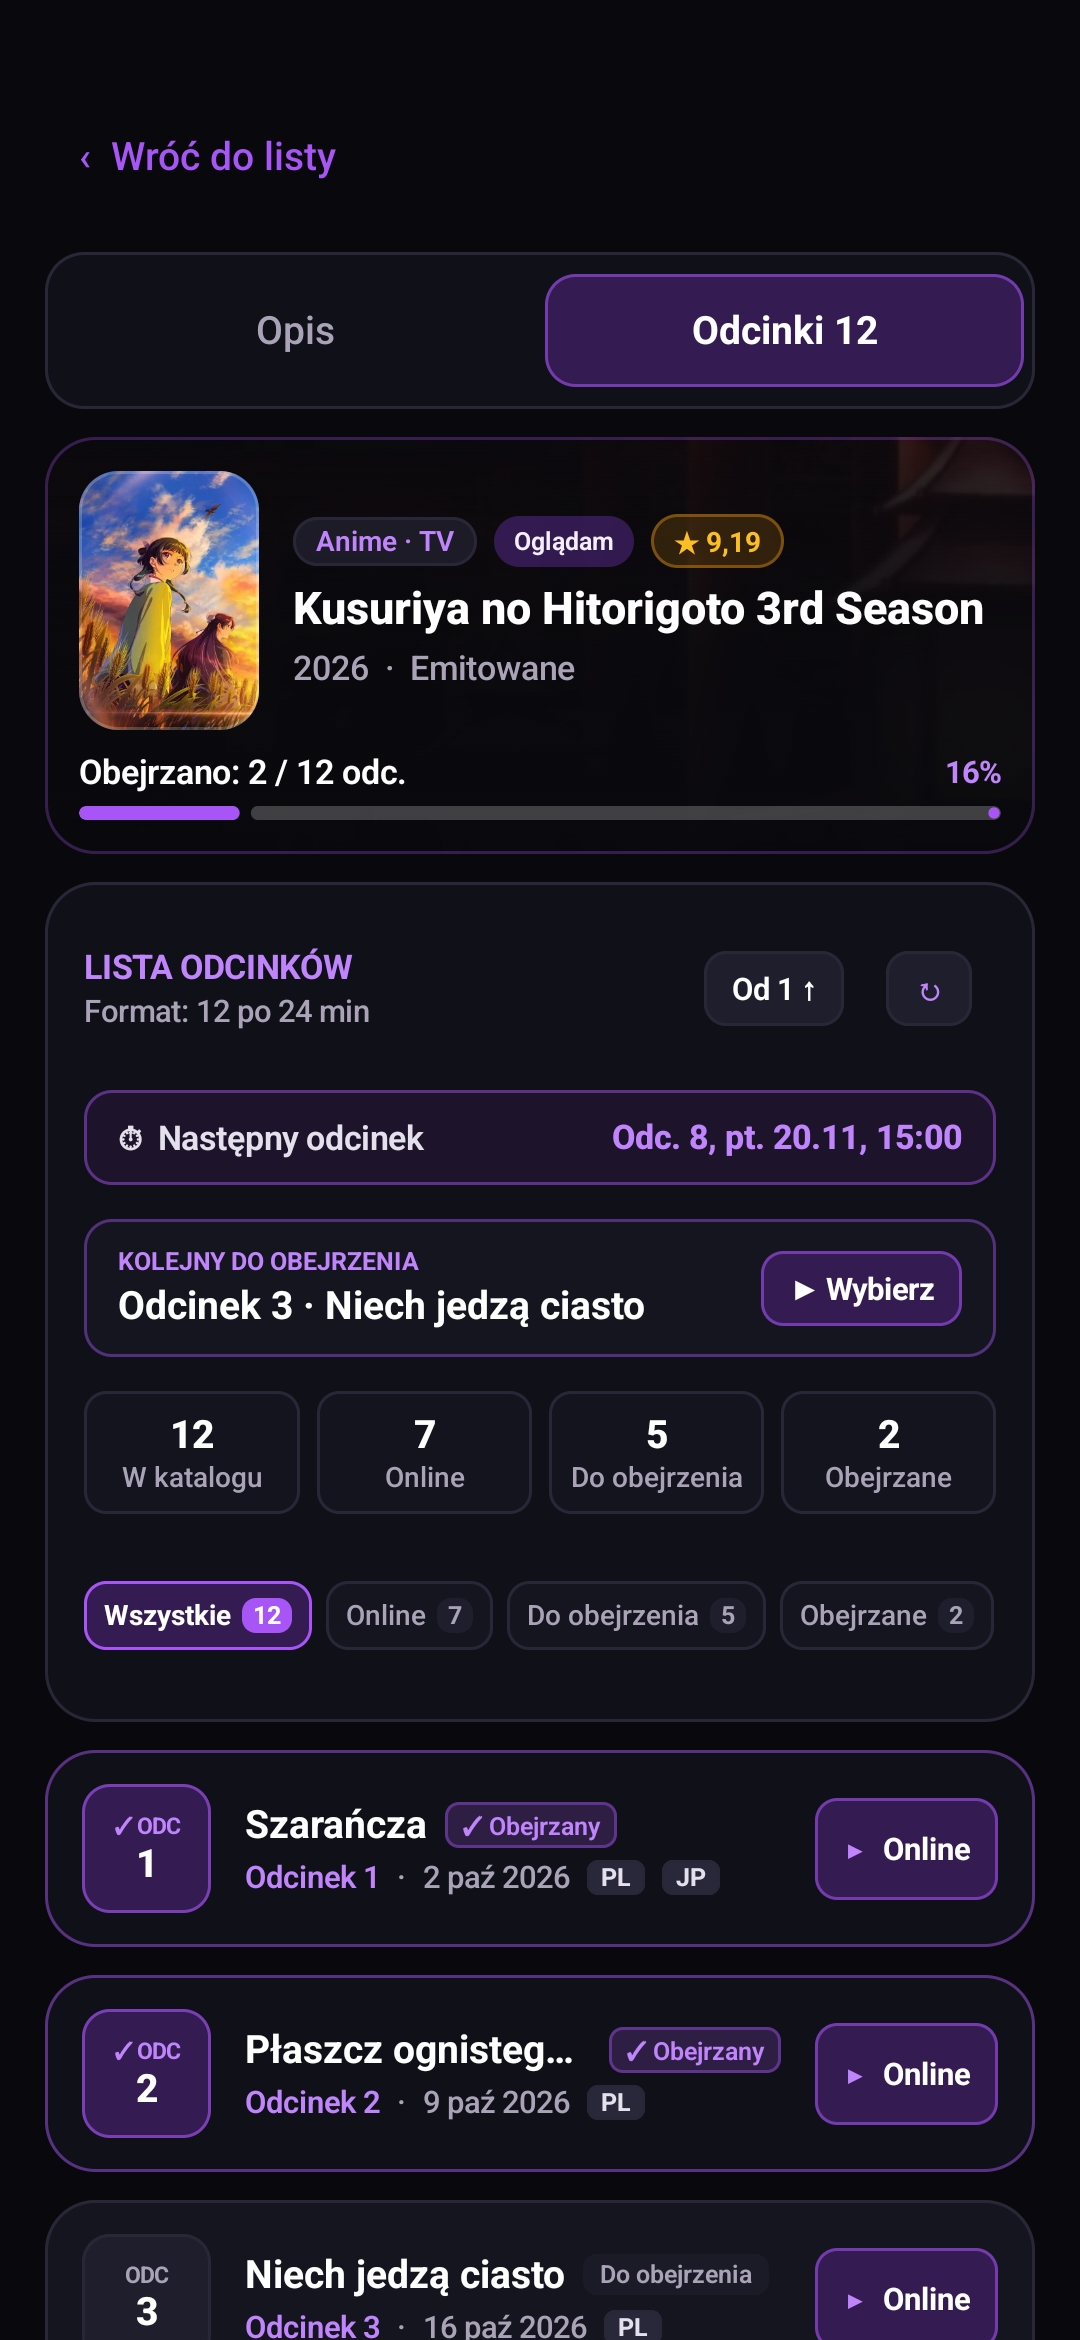
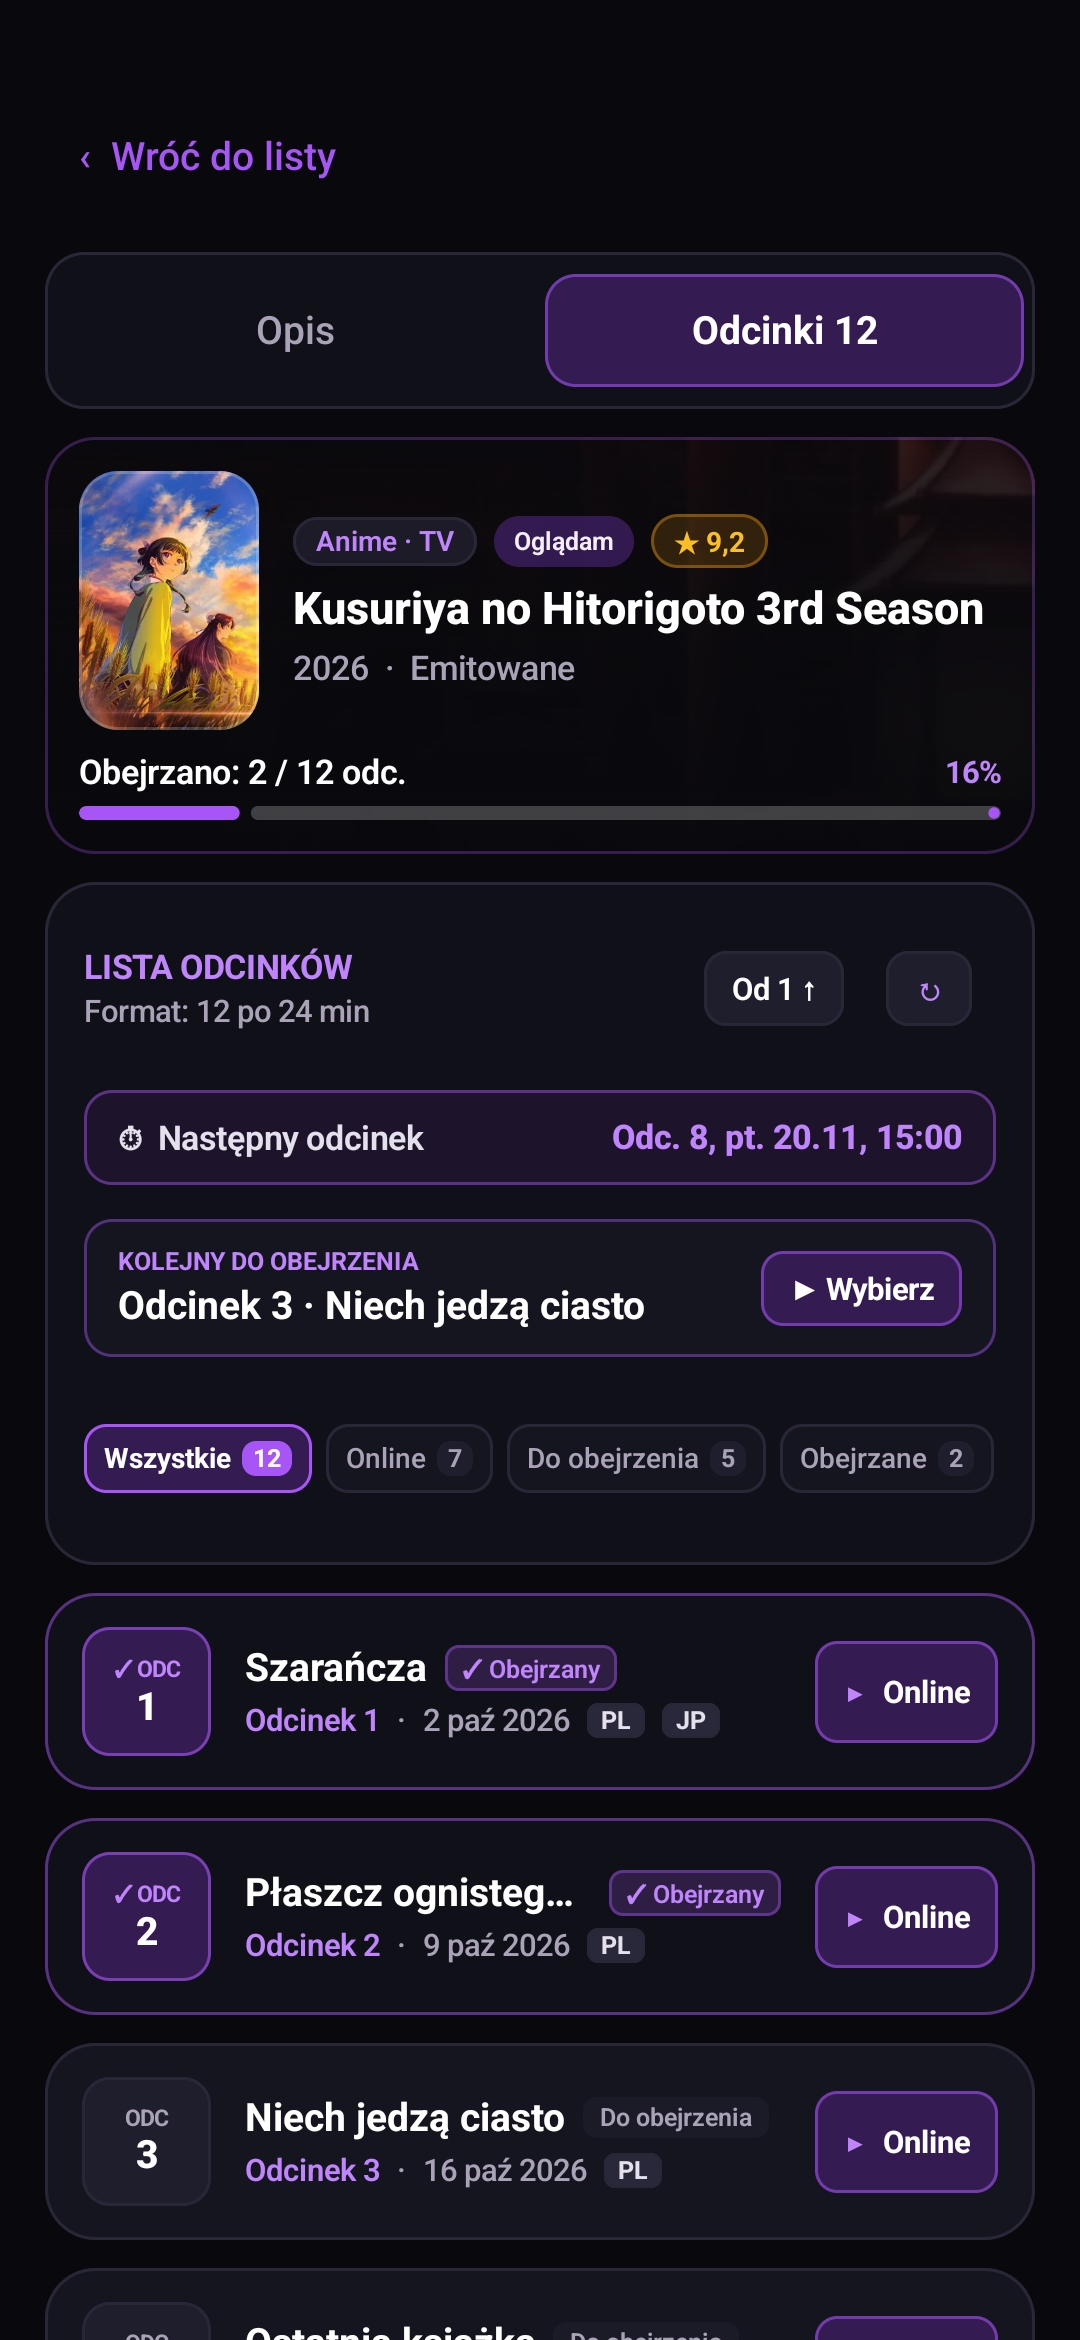
release: ShindenPocket v0.2.1

Changed region(s): [[0.0306, 0.5927, 0.9778, 1.0], [0.6722, 0.2184, 0.7333, 0.2496]]

diff --git a/app/src/main/java/com/example/shindenpocket/ui/SeriesOverviewSection.kt b/app/src/main/java/com/example/shindenpocket/ui/SeriesOverviewSection.kt
@@ -848,7 +848,6 @@ private fun SeriesCharactersCard(
 @Composable
 internal fun SeriesEpisodesDashboardCard(
     seriesInfo: SeasonSeriesInfo?,
-    stats: List<Pair<String, String>>,
     filters: List<Pair<String, Int>>,
     selectedFilter: Int,
     onSelectFilter: (Int) -> Unit,
@@ -1030,44 +1029,6 @@ internal fun SeriesEpisodesDashboardCard(
             }
 
             
-            if (stats.isNotEmpty()) {
-                Row(
-                    modifier = Modifier.fillMaxWidth(),
-                    horizontalArrangement = Arrangement.spacedBy(6.dp)
-                ) {
-                    stats.forEach { (label, value) ->
-                        Surface(
-                            modifier = Modifier.weight(1f),
-                            color = PocketPalette.surfaceRaised.copy(alpha = 0.85f),
-                            shape = RoundedCornerShape(8.dp),
-                            border = BorderStroke(1.dp, PocketPalette.outlineVariant)
-                        ) {
-                            Column(
-                                modifier = Modifier.padding(horizontal = 6.dp, vertical = 7.dp),
-                                horizontalAlignment = Alignment.CenterHorizontally,
-                                verticalArrangement = Arrangement.spacedBy(1.dp)
-                            ) {
-                                Text(
-                                    text = value,
-                                    style = MaterialTheme.typography.titleSmall,
-                                    fontWeight = FontWeight.ExtraBold,
-                                    color = Color.White,
-                                    maxLines = 1
-                                )
-                                Text(
-                                    text = label,
-                                    style = MaterialTheme.typography.labelSmall,
-                                    fontSize = 10.sp,
-                                    color = PocketPalette.onSurfaceVariant,
-                                    maxLines = 1,
-                                    overflow = TextOverflow.Ellipsis
-                                )
-                            }
-                        }
-                    }
-                }
-            }
-
             // Filtry `.sh-tp` pozostają w jednym rzędzie.
             if (filters.isNotEmpty()) {
                 Row(

diff --git a/app/src/main/java/com/example/shindenpocket/ui/AnimeDetailsScreen.kt b/app/src/main/java/com/example/shindenpocket/ui/AnimeDetailsScreen.kt
@@ -580,12 +580,6 @@ fun AnimeDetails(
                                 )
                                 SeriesEpisodesDashboardCard(
                                     seriesInfo = seriesInfo,
-                                    stats = listOf(
-                                        "W katalogu" to current.items.size.toString(),
-                                        "Online" to current.withOnlineVersion.toString(),
-                                        "Do obejrzenia" to current.availableUnwatched.toString(),
-                                        "Obejrzane" to current.watched.toString()
-                                    ),
                                     filters = filterItems,
                                     selectedFilter = filter,
                                     onSelectFilter = { filter = it },
@@ -875,5 +869,4 @@ fun AnimeDetails(
         )
     }
 }
-
 

diff --git a/app/src/main/java/com/example/shindenpocket/ui/SeasonAnimeDetailsScreen.kt b/app/src/main/java/com/example/shindenpocket/ui/SeasonAnimeDetailsScreen.kt
@@ -227,16 +227,8 @@ internal fun SeasonAnimeDetailsScreen(
                             add("Zapowiedziane" to upcomingCount)
                         }
                     }
-                    val statItems = buildList {
-                        add("W katalogu" to ordered.size.toString())
-                        add("Online" to onlineCount.toString())
-                        if (upcomingCount > 0) {
-                            add("Zapowiedziane" to upcomingCount.toString())
-                        }
-                    }
                     SeriesEpisodesDashboardCard(
                         seriesInfo = info,
-                        stats = statItems,
                         filters = filterItems,
                         selectedFilter = filter,
                         onSelectFilter = { filter = it },
